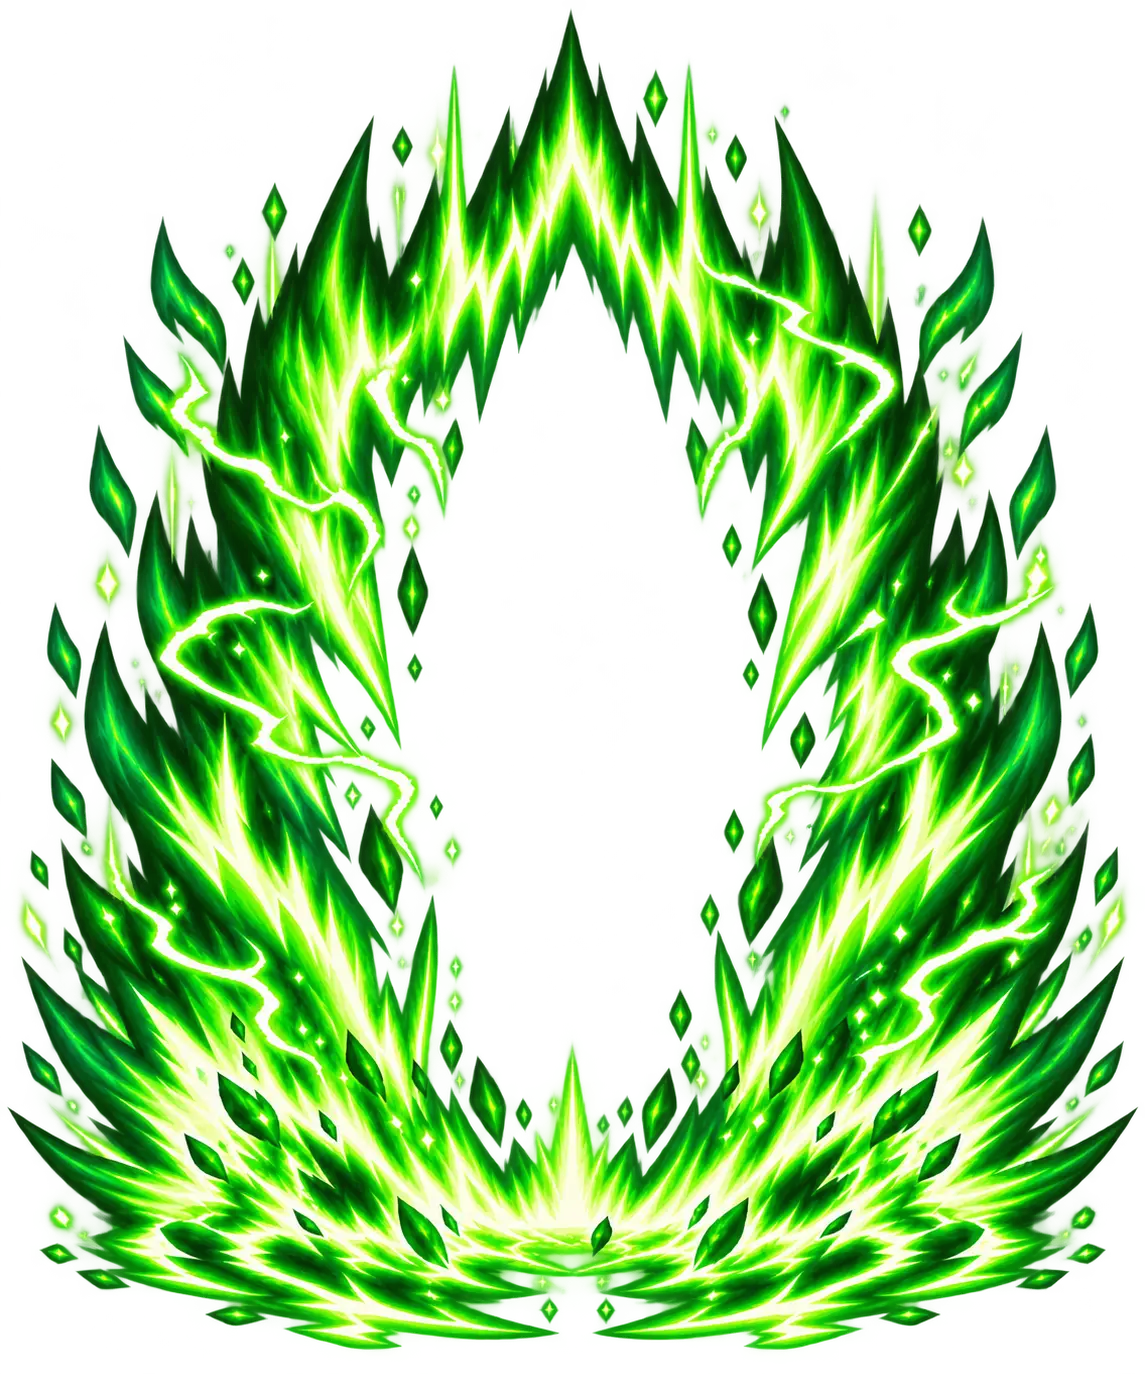
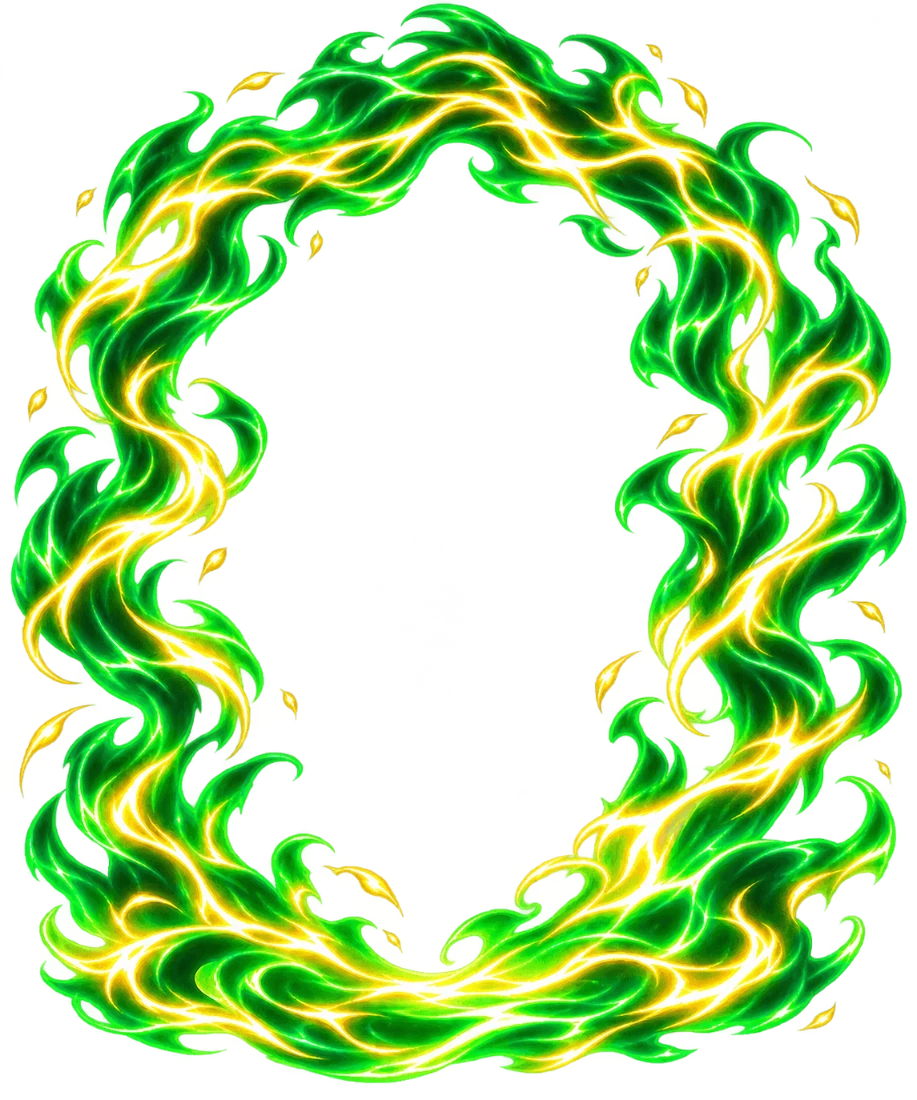
New Super Mode and Super Battlizer toggle auras; preload the super-mode picture so the flash isn't cut short (version 67)

diff --git a/js/artkit.js b/js/artkit.js
@@ -370,6 +370,7 @@ const ArtKit = (() => {
       request('aura-powerup'); // warm up the aura bursts so they're ready on first use
       request('aura-super');
       request('aura-battlizer');
+      request('aura-superbattlizer');
       return PRIMARY.some((k) => !!imgs[k]);
     },
     // true once we know whether the primary ranger images exist (loaded or confirmed missing)
@@ -393,6 +394,9 @@ const ArtKit = (() => {
       const helmet = a.morphed !== false ? 'on' : 'off';
       const weapon = L.weaponHeld && L.weapon ? L.weapon : null;
       // warm up this emblem's Battlizer so switching it on isn't interrupted by the picture arriving mid-flash
+      if (modesAvailable(q).length && L.superMode) { // same for the chosen super mode and its stand-in picture
+        request(`super-${L.superMode}-${weapon || 'unarmed'}`); request(`super-${L.superMode}-unarmed`); request('legacyPower');
+      }
       if (modesAvailable(q).includes('battlizer')) request(`battlizer-${L.emblem}`);
       if (modesAvailable(q).includes('superbattlizer')) request(`superbattlizer-${L.emblem}`);
 
@@ -439,7 +443,7 @@ const ArtKit = (() => {
       const coreRgb = mix(auraRgb, [255, 255, 255], 0.65);
       const auraVars = `--aura:rgb(${auraRgb});--aura-core:rgb(${coreRgb})`;
       // super mode reuses the power-up flash + charge, with its own wider aura art
-      const fxClass = fx ? ' fx-' + fx + (fx === 'superup' || fx === 'battlizerup' ? ' fx-powerup' : '') : '';
+      const fxClass = fx ? ' fx-' + fx + (fx === 'superup' || fx === 'battlizerup' || fx === 'superbattlizerup' ? ' fx-powerup' : '') : '';
       let html = `<div class="art-scene${fxClass}" style="${auraVars}" role="img" aria-label="Your ranger">`;
       const bgKey = BG_ART[a.background];
       if (bgKey) request(bgKey);
@@ -476,9 +480,13 @@ const ArtKit = (() => {
       if (fx === 'battlizerup' && imgs['aura-battlizer']) {
         html += `<img class="art-superaura" alt="" src="${greenTinted('aura-battlizer', auraRgb)}">`;
       }
-      // Super Mode: the wider aura that fits the frame
+      // Super Mode: a ring of green flame (the greens follow the suit color, the gold stays)
       if (fx === 'superup' && imgs['aura-super']) {
-        html += `<img class="art-superaura" alt="" src="${tinted('aura-super', auraRgb)}">`;
+        html += `<img class="art-superaura" alt="" src="${greenTinted('aura-super', auraRgb)}">`;
+      }
+      // Super Battlizer on: flame and lightning around an emerald
+      if (fx === 'superbattlizerup' && imgs['aura-superbattlizer']) {
+        html += `<img class="art-superaura" alt="" src="${greenTinted('aura-superbattlizer', auraRgb)}">`;
       }
 
       // the ranger and what he holds move together (effects on art-figure; the ranger's own idle motion is the GIF frames)

diff --git a/js/quests.js b/js/quests.js
@@ -632,7 +632,7 @@ function scheduleClearFx() {
   clearTimeout(fxTimer);
   fxTimer = setTimeout(() => {
     document.querySelectorAll('.art-scene').forEach((s) => {
-      s.classList.remove('fx-morph', 'fx-powerup', 'fx-superup', 'fx-battlizerup', 'fx-power', 'fx-pop');
+      s.classList.remove('fx-morph', 'fx-powerup', 'fx-superup', 'fx-battlizerup', 'fx-superbattlizerup', 'fx-power', 'fx-pop');
       s.querySelectorAll('.art-powerup, .art-superaura').forEach((n) => n.remove());
     });
   }, 1000);
@@ -698,7 +698,10 @@ function setLoadout(change) {
   const batWas = wasSuper && wasMode === 'battlizer';
   const comboWas = wasSuper && !isEmblemMode(wasMode);
   // Battlizer on: its own aura burst (like Back to Action). Battlizer or Super Battlizer off: the Power Down flash.
+  const sbNow = isSuper && q.loadout.superMode === 'superbattlizer';
+  const sbWas = wasSuper && wasMode === 'superbattlizer';
   if (batNow && !batWas) questUI.fx = 'battlizerup';
+  else if (sbNow && !sbWas) questUI.fx = 'superbattlizerup';
   else if (comboWas && !isSuper) questUI.fx = 'morph';
   // super mode switching on (or to another mode) gets the big aura burst; switching off keeps the old flash
   else if (isSuper && (!wasSuper || q.loadout.superMode !== wasMode)) questUI.fx = 'superup';
@@ -779,7 +782,7 @@ function renderActionsCard() {
 
 // ---- motion preference (this device only; follows the phone's "reduce motion" setting by default) ----
 // bump together with CACHE in sw.js on every deploy
-const APP_BUILD = 65;
+const APP_BUILD = 67;
 const MOTION_KEY = 'holform-motion';
 function motionOff() {
   try {

diff --git a/css/styles.css b/css/styles.css
@@ -1060,7 +1060,7 @@ div.art-ranger { position: absolute; }
 
 /* Super Mode: wider aura art, sized to the frame, same quick burst */
 .art-superaura { position: absolute; left: 50%; bottom: -1%; width: 106%; height: auto; transform: translateX(-50%); transform-origin: 50% 100%; pointer-events: none; opacity: 0; }
-.fx-superup .art-superaura, .fx-battlizerup .art-superaura { animation: auraBurst 0.85s ease-out both; }
+.fx-superup .art-superaura, .fx-battlizerup .art-superaura, .fx-superbattlizerup .art-superaura { animation: auraBurst 0.85s ease-out both; }
 @media (prefers-reduced-motion: reduce) { .art-superaura { animation: none !important; } }
 .reduce-motion .art-superaura { animation: none !important; }
 

diff --git a/sw.js b/sw.js
@@ -1,4 +1,4 @@
-const CACHE = 'holform-os-v65';
+const CACHE = 'holform-os-v67';
 const ASSETS = [
   './',
   './index.html',
